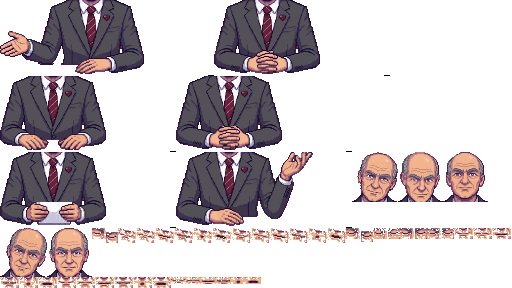
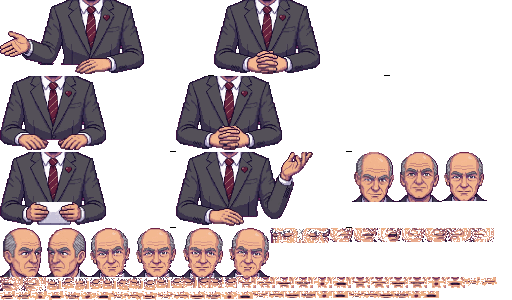
Seated sets: leaned heads (tilt-6, tilt-3, tilt3, tilt6) made by code from the master head, Fraser turned-head frames approved (#78)
The tilt heads turn the head's own pixels (flood-filled outline, cut at the chin) about the neck with every mouth and blink composed first, so no generated leans are needed. They replace h5/h6 in the bake.

diff --git a/site/spike-lib/compose.js b/site/spike-lib/compose.js
@@ -39,6 +39,8 @@ function codeEyes(h, eye, eyes) {
 
 function composeHead(F, head, eye, mouthKey) {
   const { cfg, G, V, off, warp, faceOf } = F, fc = cfg.face, P = fc.patch;
+  // a leaned head (seated sets, #78): the master head with its mouth and blink composed on, then its own pixels turned about the neck
+  if (fc.heads[head]?.mode === 'tilt') return rotateHead(composeHead(F, 'b1', eye, mouthKey), F.headMask ??= headMask(G.b1, fc.tilt), fc.heads[head].deg, fc.tilt.pivot);
   const src = G[head] ? head : 'b1', spec = fc.heads[src];   // a head frame that is not generated yet falls back to the master head
   const mk = mouthKey === 'rest' ? null : fc.mouthAlias?.[mouthKey] ?? mouthKey, open = eye === 'open';
   let h = G[src];
@@ -99,6 +101,43 @@ function rigidOffsets(base, head, B, R = 8) {
   const off = { eyeL: move(pL), eyeR: move(pR), mouth: move(pM) };
   if (Math.abs(r) > 0.005) off.mouthRot = +r.toFixed(3);
   return off;
+}
+
+/**
+ * The head's own pixels, as a mask over the grid: flood out from the middle of the face over every colour the head uses and the clothes do not, then fill holes (highlights, earrings).
+ * Below the chin the neck is left out (`neck` cells either side of `cx`), and nothing below `maxY` is taken, so the collar and shoulders never move. `tilt` is { chin, neck, cx, maxY, seed, pivot }.
+ */
+function headMask(P, { chin, neck, cx = 117, maxY = 55, seed = [117, 30] }) {
+  const key = (x, y) => { const c = P.get(x, y); return (c[0] << 16) | (c[1] << 8) | c[2]; };
+  const headCols = new Set(), cloth = new Set();
+  for (let y = 8; y <= 42; y++) for (let x = 90; x <= 145; x++) if (P.has(x, y)) headCols.add(key(x, y));
+  for (let y = 62; y <= 100; y++) for (let x = 70; x <= 170; x++) if (P.has(x, y) && !headCols.has(key(x, y))) cloth.add(key(x, y));
+  const ok = (x, y) => P.has(x, y) && !cloth.has(key(x, y)) && y <= maxY && !(y > chin && Math.abs(x - cx) <= neck);
+  const W = P.w, H = P.h, mask = new Uint8Array(W * H), q = [seed]; mask[seed[1] * W + seed[0]] = 1;
+  while (q.length) { const [x, y] = q.pop(); for (let dy = -1; dy <= 1; dy++) for (let dx = -1; dx <= 1; dx++) { const nx = x + dx, ny = y + dy; if (nx < 0 || ny < 0 || nx >= W || ny >= H || mask[ny * W + nx]) continue; if (ok(nx, ny)) { mask[ny * W + nx] = 1; q.push([nx, ny]); } } }
+  const out = new Uint8Array(W * H), r = [[0, 0]]; out[0] = 2;
+  while (r.length) { const [x, y] = r.pop(); for (const [dx, dy] of [[1, 0], [-1, 0], [0, 1], [0, -1]]) { const nx = x + dx, ny = y + dy; if (nx < 0 || ny < 0 || nx >= W || ny >= H || out[ny * W + nx] || mask[ny * W + nx]) continue; out[ny * W + nx] = 2; r.push([nx, ny]); } }
+  for (let i = 0; i < W * H; i++) mask[i] = out[i] === 2 ? 0 : 1;
+  return mask;
+}
+
+/**
+ * `P` with the pixels inside `mask` turned `deg` degrees (clockwise is positive) about `pivot` (grid cells), the rest left where it is.
+ * RotSprite-style: each cell takes the commonest colour among K x K sub-samples mapped back through the turn, so outlines stay clean at the small angles a head leans.
+ */
+function rotateHead(P, mask, deg, pivot, K = 8) {
+  const out = P.clone(), W = P.w, th = deg * Math.PI / 180, co = Math.cos(th), si = Math.sin(th), [px, py] = pivot;
+  for (let y = 0; y < P.h; y++) for (let x = 0; x < W; x++) if (mask[y * W + x]) out.d[out.idx(x, y) + 3] = 0;
+  for (let y = 0; y < P.h; y++) for (let x = 0; x < W; x++) {
+    const counts = new Map(); let bestKey = -1, bestN = 0;
+    for (let sy = 0; sy < K; sy++) for (let sx = 0; sx < K; sx++) {
+      const dx = x + (sx + 0.5) / K - px, dy = y + (sy + 0.5) / K - py, ux = Math.floor(px + dx * co + dy * si), uy = Math.floor(py - dx * si + dy * co);
+      const hit = ux >= 0 && uy >= 0 && ux < W && uy < P.h && mask[uy * W + ux] && P.has(ux, uy), c = hit ? (P.get(ux, uy)[0] << 16) | (P.get(ux, uy)[1] << 8) | P.get(ux, uy)[2] : -1, n = (counts.get(c) || 0) + 1;
+      counts.set(c, n); if (n > bestN) { bestN = n; bestKey = c; }
+    }
+    if (bestKey >= 0) out.set(x, y, [bestKey >> 16, (bestKey >> 8) & 255, bestKey & 255]);
+  }
+  return out;
 }
 
 /** Face of a head that has moved (nods and tilts shift it by several rows): eyes from a wide window, then the mouth window sits about 11 rows below the eyes, perpendicular to the line between them, so it follows a tilt. */
